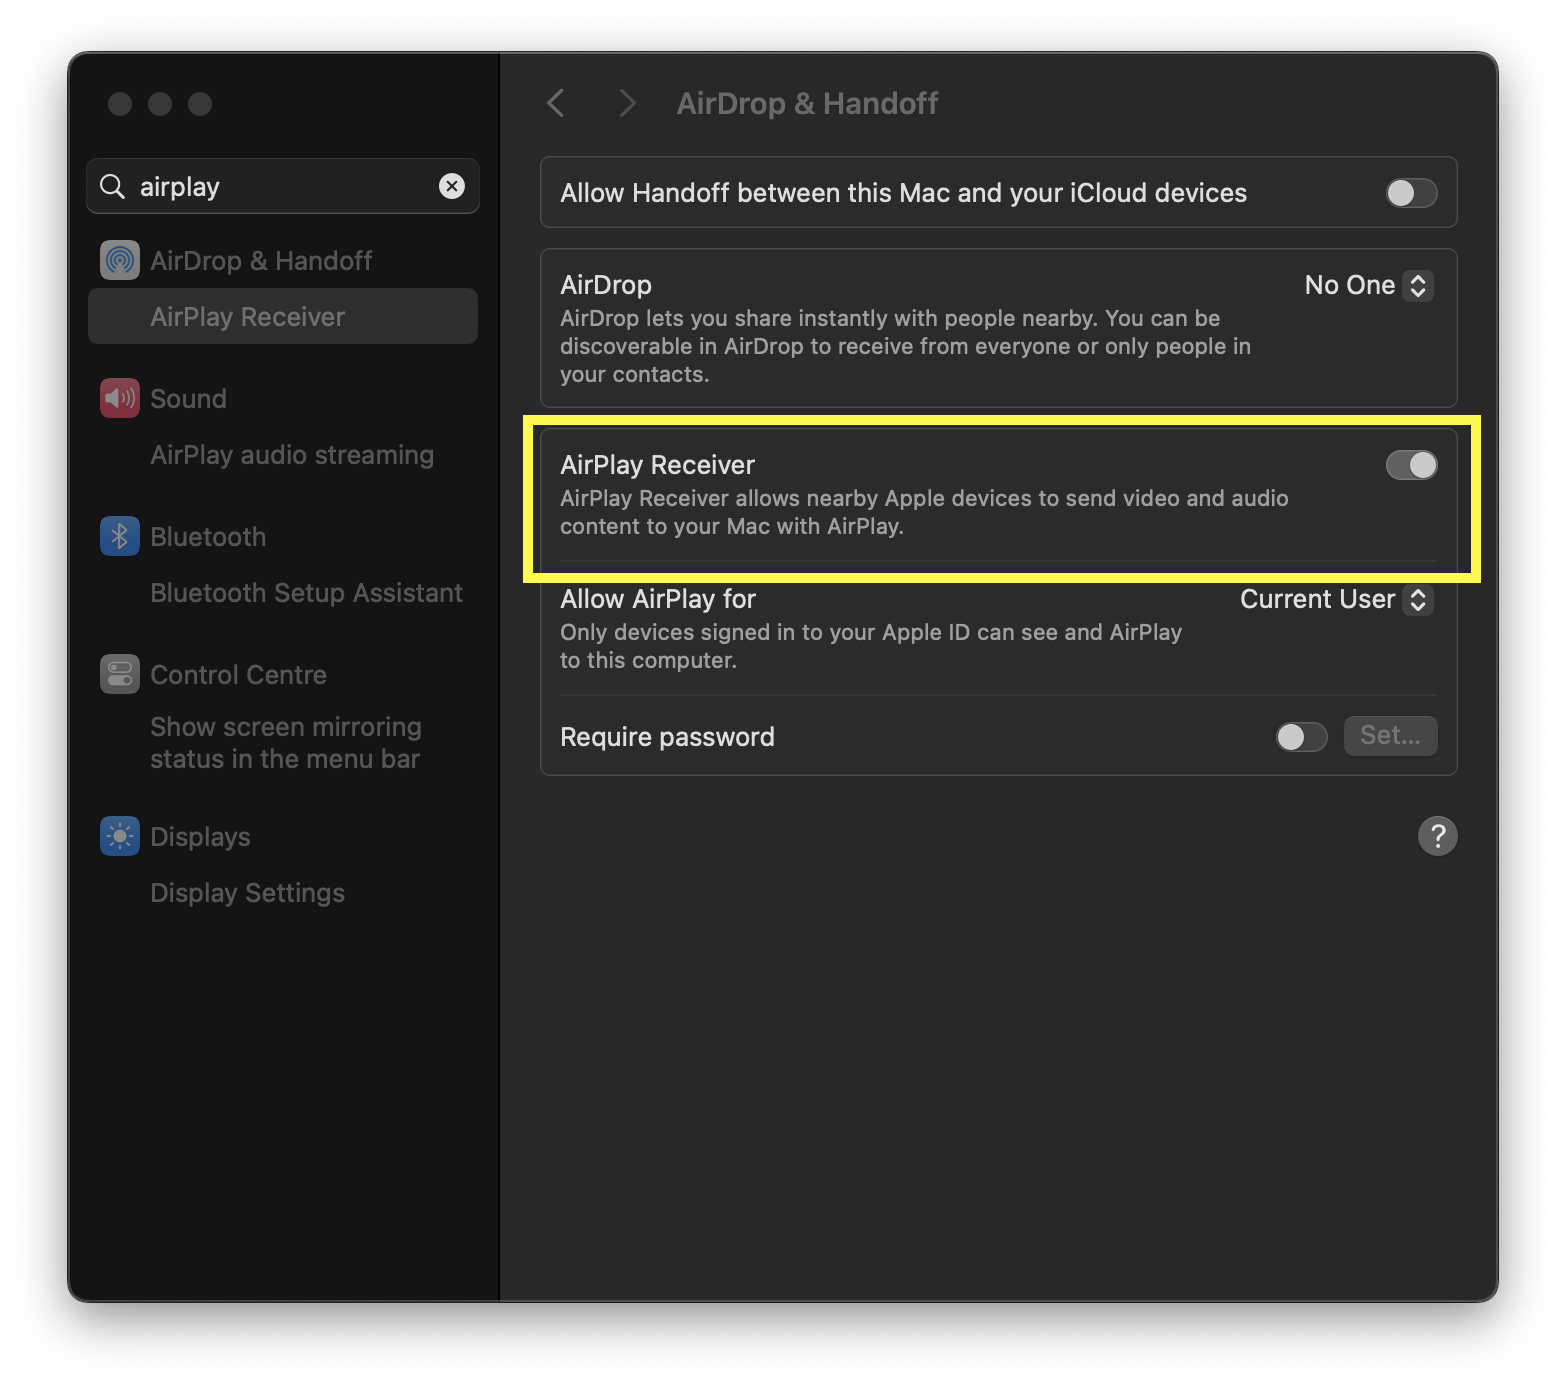
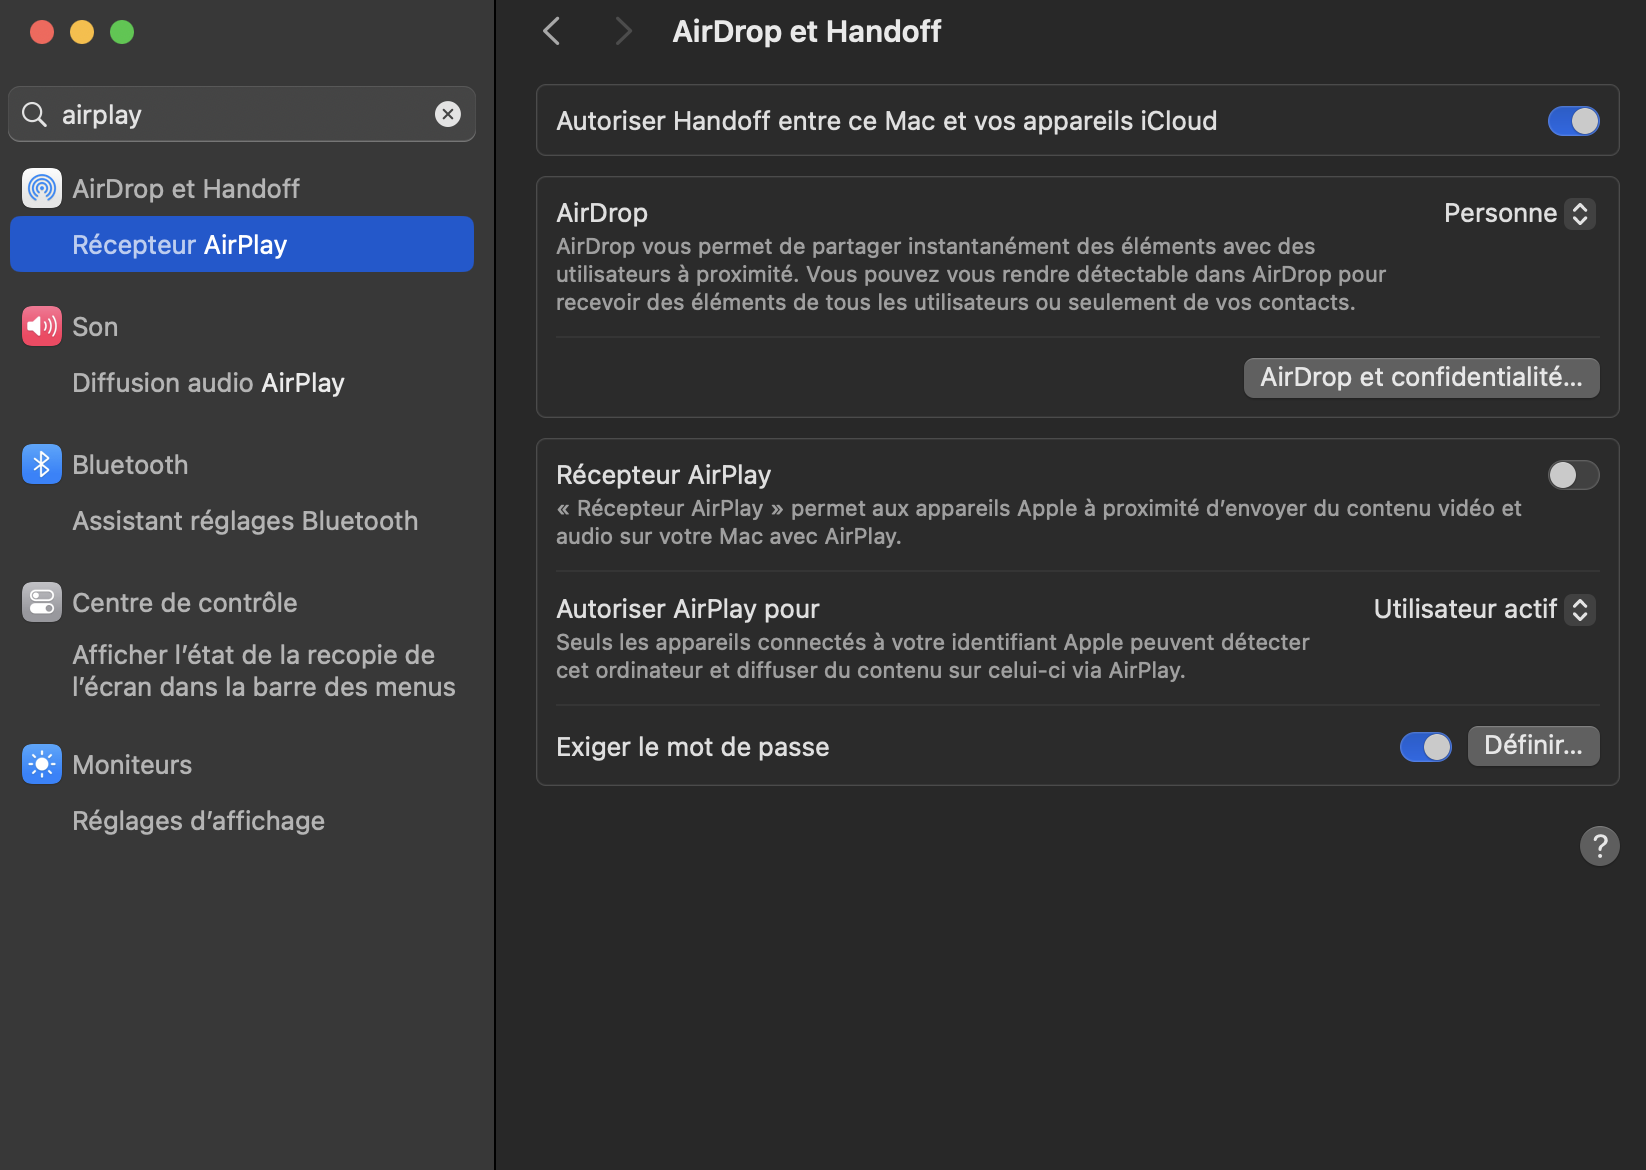
developpement-front-s5 - SAE-501 - Translate instructions

diff --git a/developpement-front-s5/sae-501/README.md b/developpement-front-s5/sae-501/README.md
@@ -282,6 +282,6 @@ Dans le projet, les dates sont enregistrées au format ISO, ce qui donne au fina
 Vous n'avez pas installé MongoDB, la console indique juste qu'elle n'arrive pas à trouver des données (voir [MONGODB-NOSQL.md](./MONGODB-NOSQL.md#installation) pour l'installation).
 
 - **Mon serveur node s'arrête sans arrêt alors qu'il n'y a pas d'erreurs dans mon code, pourquoi ?**
-Il est possible, si vous êtes sous MacOS, que le Centre de contrôles (Control Center) écoute des ports que vous utilisez et bloque parfois votre serveur node. Pour résoudre ce problème, il faut aller dans l'application "Préférences Système" puis dans le menu "AirPlay Receiver" et désactiver "AirPlay Receiver".
+Il est possible, si vous êtes sous MacOS, que le Centre de contrôles (Control Center) écoute des ports que vous utilisez et bloque parfois votre serveur node. Pour résoudre ce problème, il faut aller dans l'application "Préférences Système" puis dans le menu "Récepteur AirPlay" et désactivez "Récepteur AirPlay".
     ![](captures/airreceiver.png)
     - [En savoir plus](https://developer.apple.com/forums/thread/682332)
